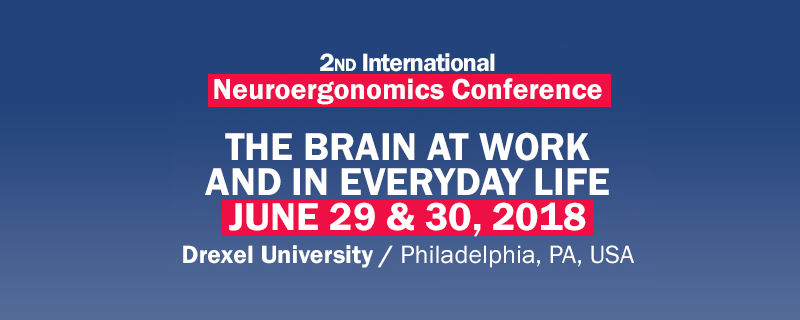
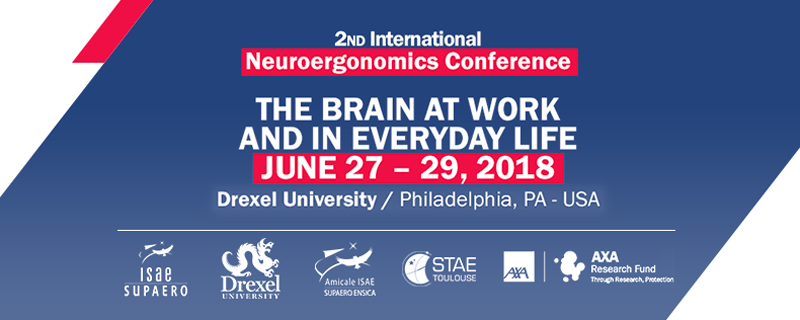
updated some stuff, not sure what exactly, it's been a while

diff --git a/source/assets/stylesheets/custom.scss b/source/assets/stylesheets/custom.scss
@@ -1,23 +1,23 @@
 .background-image {
   background-repeat: no-repeat;
   background-position: top center;
-  background-size: cover;
 
   @include media-breakpoint-up(xs) {
     background-image: image-url("banner-sm.png");
     height: 240px;
+    background-size: contain;
   }
   @include media-breakpoint-up(sm) {
+    background-image: image-url("banner-md.png");
     height: 280px;
     background-size: contain;
   }
   @include media-breakpoint-up(md) {
-    background-image: image-url("banner-md.png");
     height: 276px;
     background-size: contain;
   }
   @include media-breakpoint-up(lg) {
-    background-image: image-url("banner.png");
+    background-image: image-url("banner-lg.png");
     height: 220px;
     background-size: contain;
   }
@@ -27,11 +27,36 @@
   }
 }
 
-.display-4 {
-  @include media-breakpoint-up(xs) {
-    font-size: 2rem;
+.jumbotron {
+  background-color: #ffffff;
+
+  .display-4 {
+    color: #ef0f44;
+
+    @include media-breakpoint-up(xs) {
+      font-size: 2rem;
+    }
+    @include media-breakpoint-up(md) {
+      font-size: 2.5rem;
+    }
   }
-  @include media-breakpoint-up(md) {
-    font-size: 2.5rem;
+
+  p {
+    em {
+      border: 1px solid #ef0f44;
+      padding: 5px;
+      color: #23437c;
+    }
+  }
+
+  p.lead {
+    color: #23437c;
+  }
+}
+
+.card {
+  .card-header {
+    background-color: #006699;
+    color: #ffffff;
   }
 }
